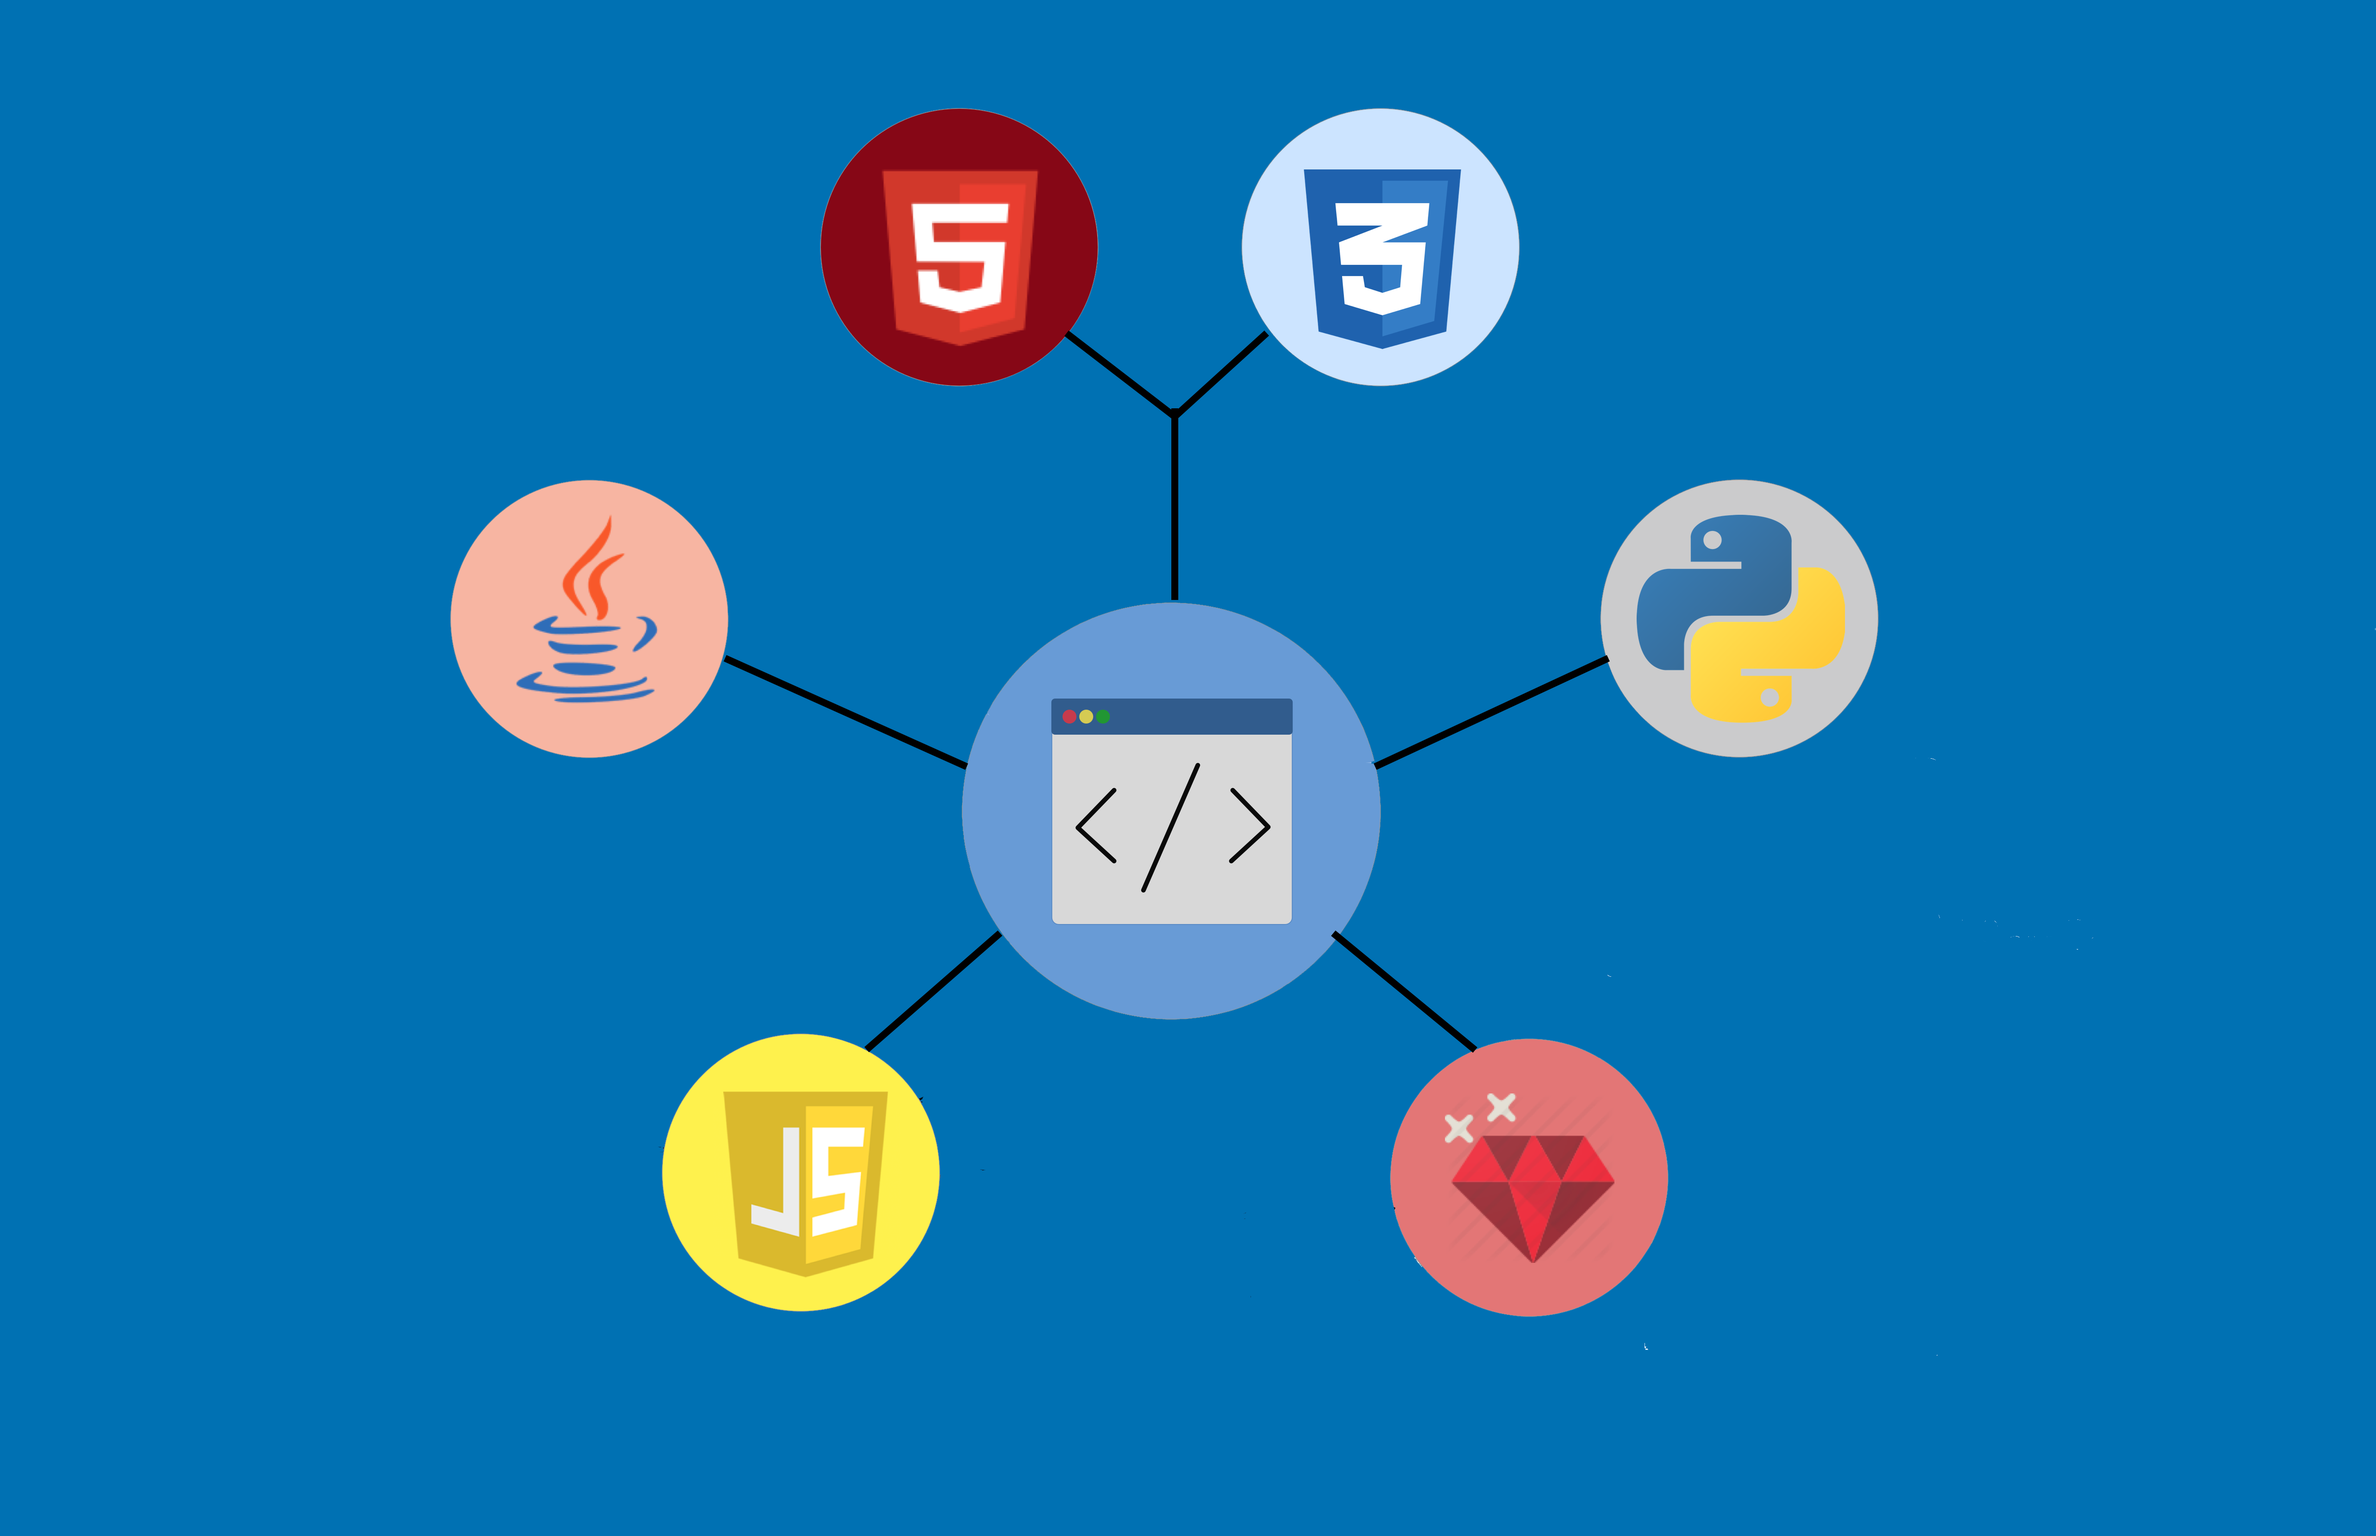
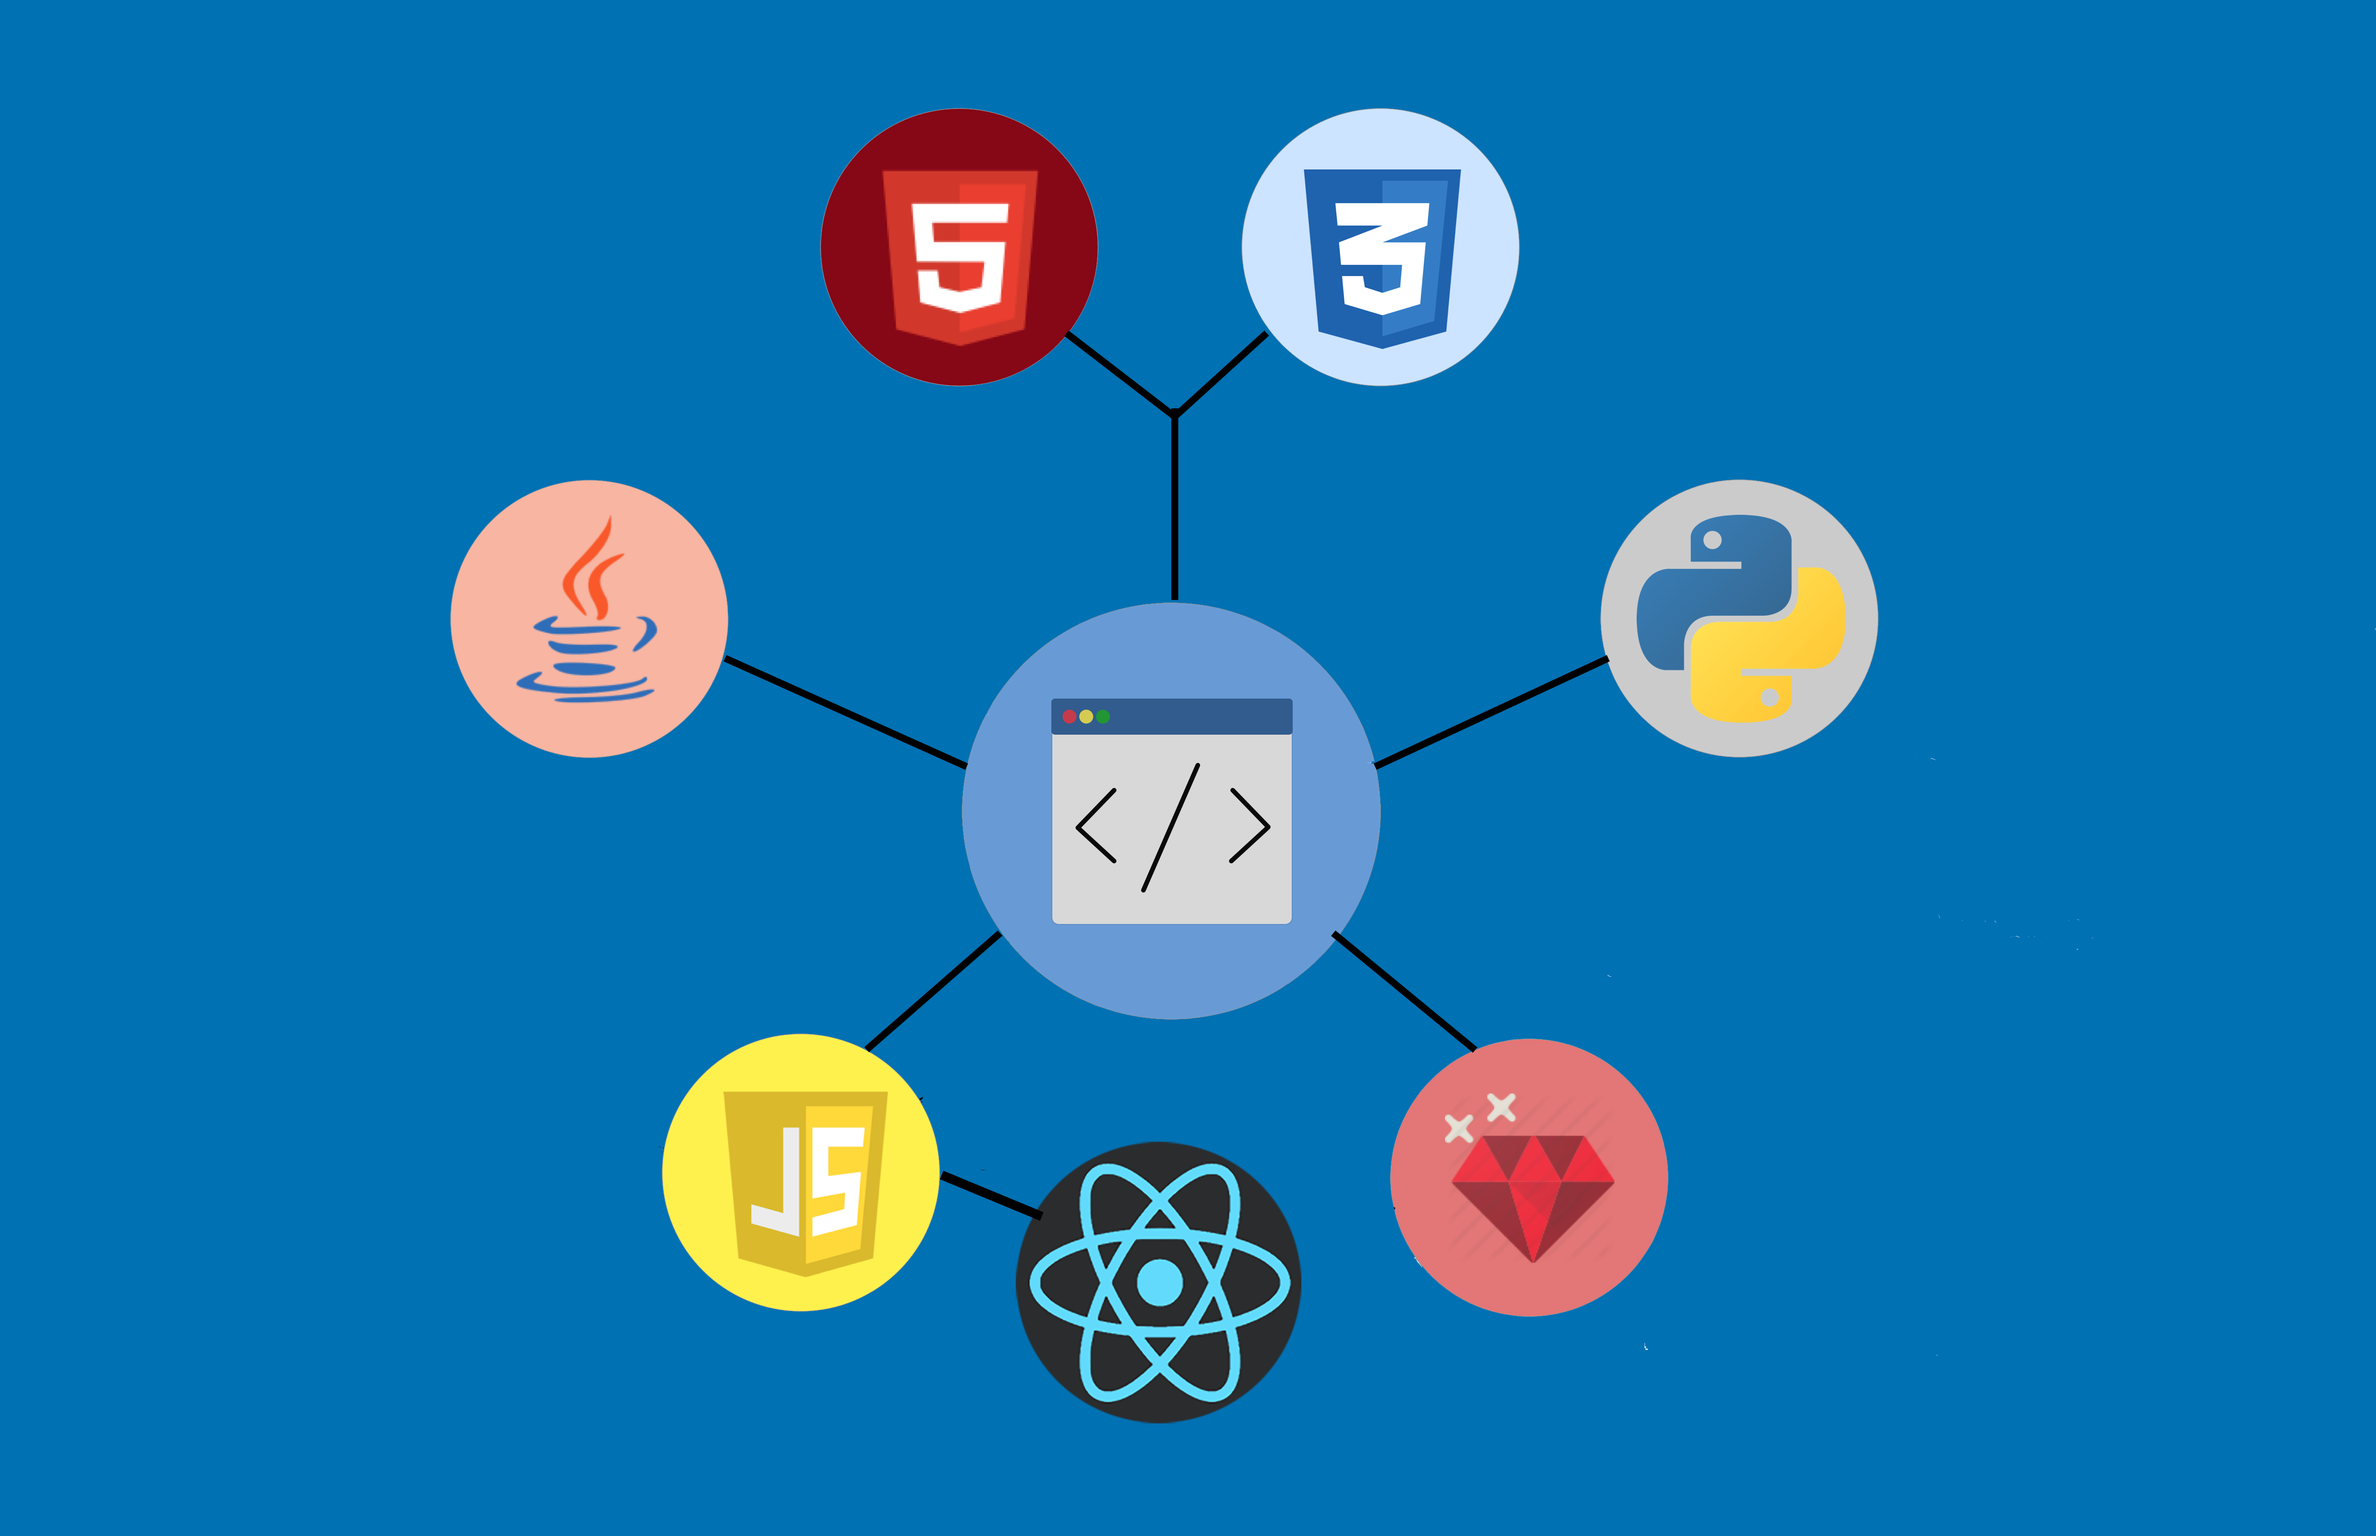
Added react to skills png, need to make even

Changed region(s): [[0.4053, 0.745, 0.5612, 0.9313]]

diff --git a/index.html b/index.html
@@ -24,7 +24,7 @@
         }</pre>
                     <canvas id="demo-canvas"></canvas>
                     <div data-ix="new-interaction">
-                        <h1 class="main-title" data-ix="fade-in-bottom-page-loads">
+                        <h1 class="main-title">
                             Jeremiah Parrack
                             <br>
                             <img class="face" src="img/header-pic.png">
